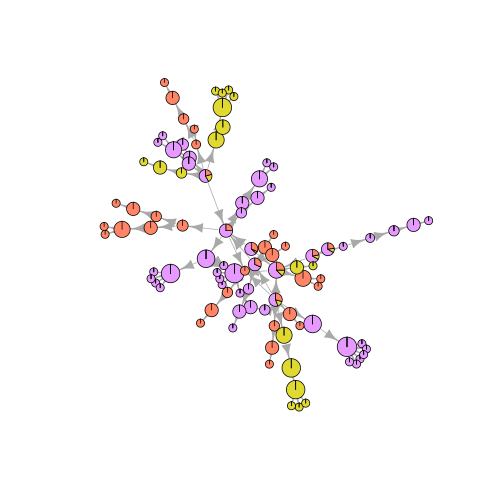
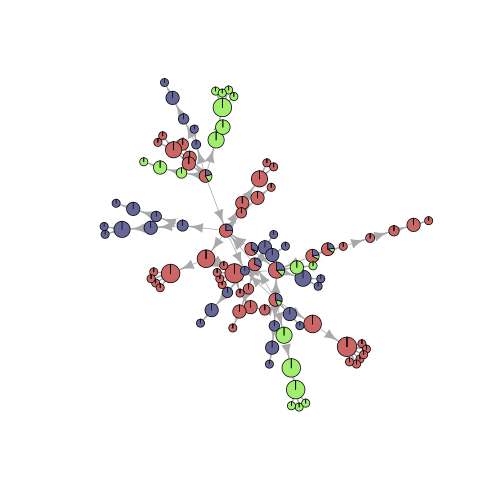
new palette; fixed vignette

diff --git a/README.md b/README.md
@@ -49,117 +49,32 @@ All we need to run the method is:
 Here, all this information is contained in the *Salmonella* dataset:
 
 ```r
-Salmonella
+names(Salmonella)
 ```
 
 ```
-## $graph
-##       from     to
-## 1   2e7967 dd73b6
-## 2   2e7967 c7cd02
-## 3   2e7967 2afba4
-## 4   2e7967 4df851
-## 5   2e7967 48f980
-## 6   2e7967 2d3187
-## 7   cd48bf e42c72
-## 8   cd48bf 7d21f1
-## 9   dd73b6 874918
-## 10  7ba446 f83f2e
-## 11  642cb4 327734
-## 12  c7cd02 337cac
-## 13  5b44d7 f7fc94
-## 14  5b44d7 2fabc7
-## 15  2afba4 5b44d7
-## 16  2afba4 c1dc98
-## 17  2afba4 b16cf0
-## 18  2afba4 206e37
-## 19  2afba4 958de8
-## 20  fc7f8f dd73b6
-## 21  963c41 acf7bb
-## 22  963c41 9f5aad
-## 23  f60e85 4941c6
-## 24  4941c6 0b57e4
-## 25  53d0b4 c7cd02
-## 26  13dc78 0b6e5a
-## 27  13dc78 78e5ba
-## 28  13dc78 ca432a
-## 29  13dc78 e45c54
-## 30  9c0e59 80afad
-## 31  6ddfa3 a7a903
-## 32  3301f4 7ba446
-## 33  3301f4 03eee3
-## 34  3301f4 6d4b91
-## 35  3301f4 881955
-## 36  3301f4 3e93ce
-## 37  3301f4 ad208a
-## 38  3301f4 958de8
-## 39  3301f4 7d21f1
-## 40  874918 cede47
-## 41  874918 82b4fc
-## 42  874918 732379
-## 43  874918 9199be
-## 44  f46d1e 7d3df0
-## 45  0b6e5a 13dc78
-## 46  c190fa 48f980
-## 47  337cac c77a84
-## 48  337cac 6f5824
-## 49  03eee3 0b6e5a
-## 50  c1dc98 76a432
-## 51  c1dc98 81e071
-## 52  a7a903 3b712b
-## 53  d2d08f cd48bf
-## 54  030327 1e7431
-## 55  030327 37aad9
-## 56  6d4b91 9c0e59
-## 57  76a432 44060b
-## 58  76a432 905296
-## 59  76a432 f951d8
-## 60  76a432 b4e5d5
-## 61  7fa3b1 1b55d2
-## 62  f83f2e a6fcaf
-## 63  881955 642cb4
-## 64  881955 2afba4
-## 65  881955 f46d1e
-## 66  881955 7fa3b1
-## 67  e42c72 4e8dc8
-## 68  4df851 4e2918
-## 69  d4d75e 7be343
-## 70  7be343 24876f
-## 71  735807 0fffca
-## 72  238842 2afba4
-## 73  238842 7d21f1
-## 74  3e93ce 09f4a0
-## 75  f7fc94 963c41
-## 76  8e02f0 38881f
-## 77  8e02f0 d81c17
-## 78  8e02f0 1569a5
-## 79  8e02f0 064974
-## 80  8e02f0 161814
-## 81  8e02f0 c09e12
-## 82  b16cf0 51ca98
-## 83  51ca98 b08945
-## 84  51ca98 f80b2e
-## 85  81e071 80afad
-## 86  81e071 35a9b6
-## 87  81e071 6e0643
-## 88  81e071 efee6b
-## 89  81e071 252679
-## 90  dc72e8 f59e4b
-## 91  4e2918 ef7028
-## 92  2fabc7 dc72e8
-## 93  ad208a 8e02f0
-## 94  48f980 d4d75e
-## 95  24dba7 1f4d22
-## 96  327734 486c07
-## 97  4e8dc8 6ddfa3
-## 98  206e37 24dba7
-## 99  958de8 f60e85
-## 100 2d3187 337cac
-## 101 7d21f1 030327
-## 102 7d21f1 735807
-## 103 7d21f1 81e071
-## 
-## $cluster
+## [1] "graph"   "cluster"
+```
+
+```r
+head(Salmonella$graph)
+```
+
+```
+##     from     to
+## 1 2e7967 dd73b6
+## 2 2e7967 c7cd02
+## 3 2e7967 2afba4
+## 4 2e7967 4df851
+## 5 2e7967 48f980
+## 6 2e7967 2d3187
+```
+
+```r
+Salmonella$cluster
+```
+
+```
 ## d81c17 064974 3b712b 486c07 6f5824 c77a84 1f4d22 f951d8 44060b 905296 
 ##      A      A      A      A      A      A      A      A      A      A 
 ## b4e5d5 0fffca 78e5ba e45c54 ca432a 0b6e5a ef7028 732379 82b4fc 9199be 

diff --git a/vignettes/dibbler.md b/vignettes/dibbler.md
@@ -54,117 +54,32 @@ All we need to run the method is:
 Here, all this information is contained in the *Salmonella* dataset:
 
 ```r
-Salmonella
+names(Salmonella)
 ```
 
 ```
-## $graph
-##       from     to
-## 1   2e7967 dd73b6
-## 2   2e7967 c7cd02
-## 3   2e7967 2afba4
-## 4   2e7967 4df851
-## 5   2e7967 48f980
-## 6   2e7967 2d3187
-## 7   cd48bf e42c72
-## 8   cd48bf 7d21f1
-## 9   dd73b6 874918
-## 10  7ba446 f83f2e
-## 11  642cb4 327734
-## 12  c7cd02 337cac
-## 13  5b44d7 f7fc94
-## 14  5b44d7 2fabc7
-## 15  2afba4 5b44d7
-## 16  2afba4 c1dc98
-## 17  2afba4 b16cf0
-## 18  2afba4 206e37
-## 19  2afba4 958de8
-## 20  fc7f8f dd73b6
-## 21  963c41 acf7bb
-## 22  963c41 9f5aad
-## 23  f60e85 4941c6
-## 24  4941c6 0b57e4
-## 25  53d0b4 c7cd02
-## 26  13dc78 0b6e5a
-## 27  13dc78 78e5ba
-## 28  13dc78 ca432a
-## 29  13dc78 e45c54
-## 30  9c0e59 80afad
-## 31  6ddfa3 a7a903
-## 32  3301f4 7ba446
-## 33  3301f4 03eee3
-## 34  3301f4 6d4b91
-## 35  3301f4 881955
-## 36  3301f4 3e93ce
-## 37  3301f4 ad208a
-## 38  3301f4 958de8
-## 39  3301f4 7d21f1
-## 40  874918 cede47
-## 41  874918 82b4fc
-## 42  874918 732379
-## 43  874918 9199be
-## 44  f46d1e 7d3df0
-## 45  0b6e5a 13dc78
-## 46  c190fa 48f980
-## 47  337cac c77a84
-## 48  337cac 6f5824
-## 49  03eee3 0b6e5a
-## 50  c1dc98 76a432
-## 51  c1dc98 81e071
-## 52  a7a903 3b712b
-## 53  d2d08f cd48bf
-## 54  030327 1e7431
-## 55  030327 37aad9
-## 56  6d4b91 9c0e59
-## 57  76a432 44060b
-## 58  76a432 905296
-## 59  76a432 f951d8
-## 60  76a432 b4e5d5
-## 61  7fa3b1 1b55d2
-## 62  f83f2e a6fcaf
-## 63  881955 642cb4
-## 64  881955 2afba4
-## 65  881955 f46d1e
-## 66  881955 7fa3b1
-## 67  e42c72 4e8dc8
-## 68  4df851 4e2918
-## 69  d4d75e 7be343
-## 70  7be343 24876f
-## 71  735807 0fffca
-## 72  238842 2afba4
-## 73  238842 7d21f1
-## 74  3e93ce 09f4a0
-## 75  f7fc94 963c41
-## 76  8e02f0 38881f
-## 77  8e02f0 d81c17
-## 78  8e02f0 1569a5
-## 79  8e02f0 064974
-## 80  8e02f0 161814
-## 81  8e02f0 c09e12
-## 82  b16cf0 51ca98
-## 83  51ca98 b08945
-## 84  51ca98 f80b2e
-## 85  81e071 80afad
-## 86  81e071 35a9b6
-## 87  81e071 6e0643
-## 88  81e071 efee6b
-## 89  81e071 252679
-## 90  dc72e8 f59e4b
-## 91  4e2918 ef7028
-## 92  2fabc7 dc72e8
-## 93  ad208a 8e02f0
-## 94  48f980 d4d75e
-## 95  24dba7 1f4d22
-## 96  327734 486c07
-## 97  4e8dc8 6ddfa3
-## 98  206e37 24dba7
-## 99  958de8 f60e85
-## 100 2d3187 337cac
-## 101 7d21f1 030327
-## 102 7d21f1 735807
-## 103 7d21f1 81e071
-## 
-## $cluster
+## [1] "graph"   "cluster"
+```
+
+```r
+head(Salmonella$graph)
+```
+
+```
+##     from     to
+## 1 2e7967 dd73b6
+## 2 2e7967 c7cd02
+## 3 2e7967 2afba4
+## 4 2e7967 4df851
+## 5 2e7967 48f980
+## 6 2e7967 2d3187
+```
+
+```r
+Salmonella$cluster
+```
+
+```
 ## d81c17 064974 3b712b 486c07 6f5824 c77a84 1f4d22 f951d8 44060b 905296 
 ##      A      A      A      A      A      A      A      A      A      A 
 ## b4e5d5 0fffca 78e5ba e45c54 ca432a 0b6e5a ef7028 732379 82b4fc 9199be 
